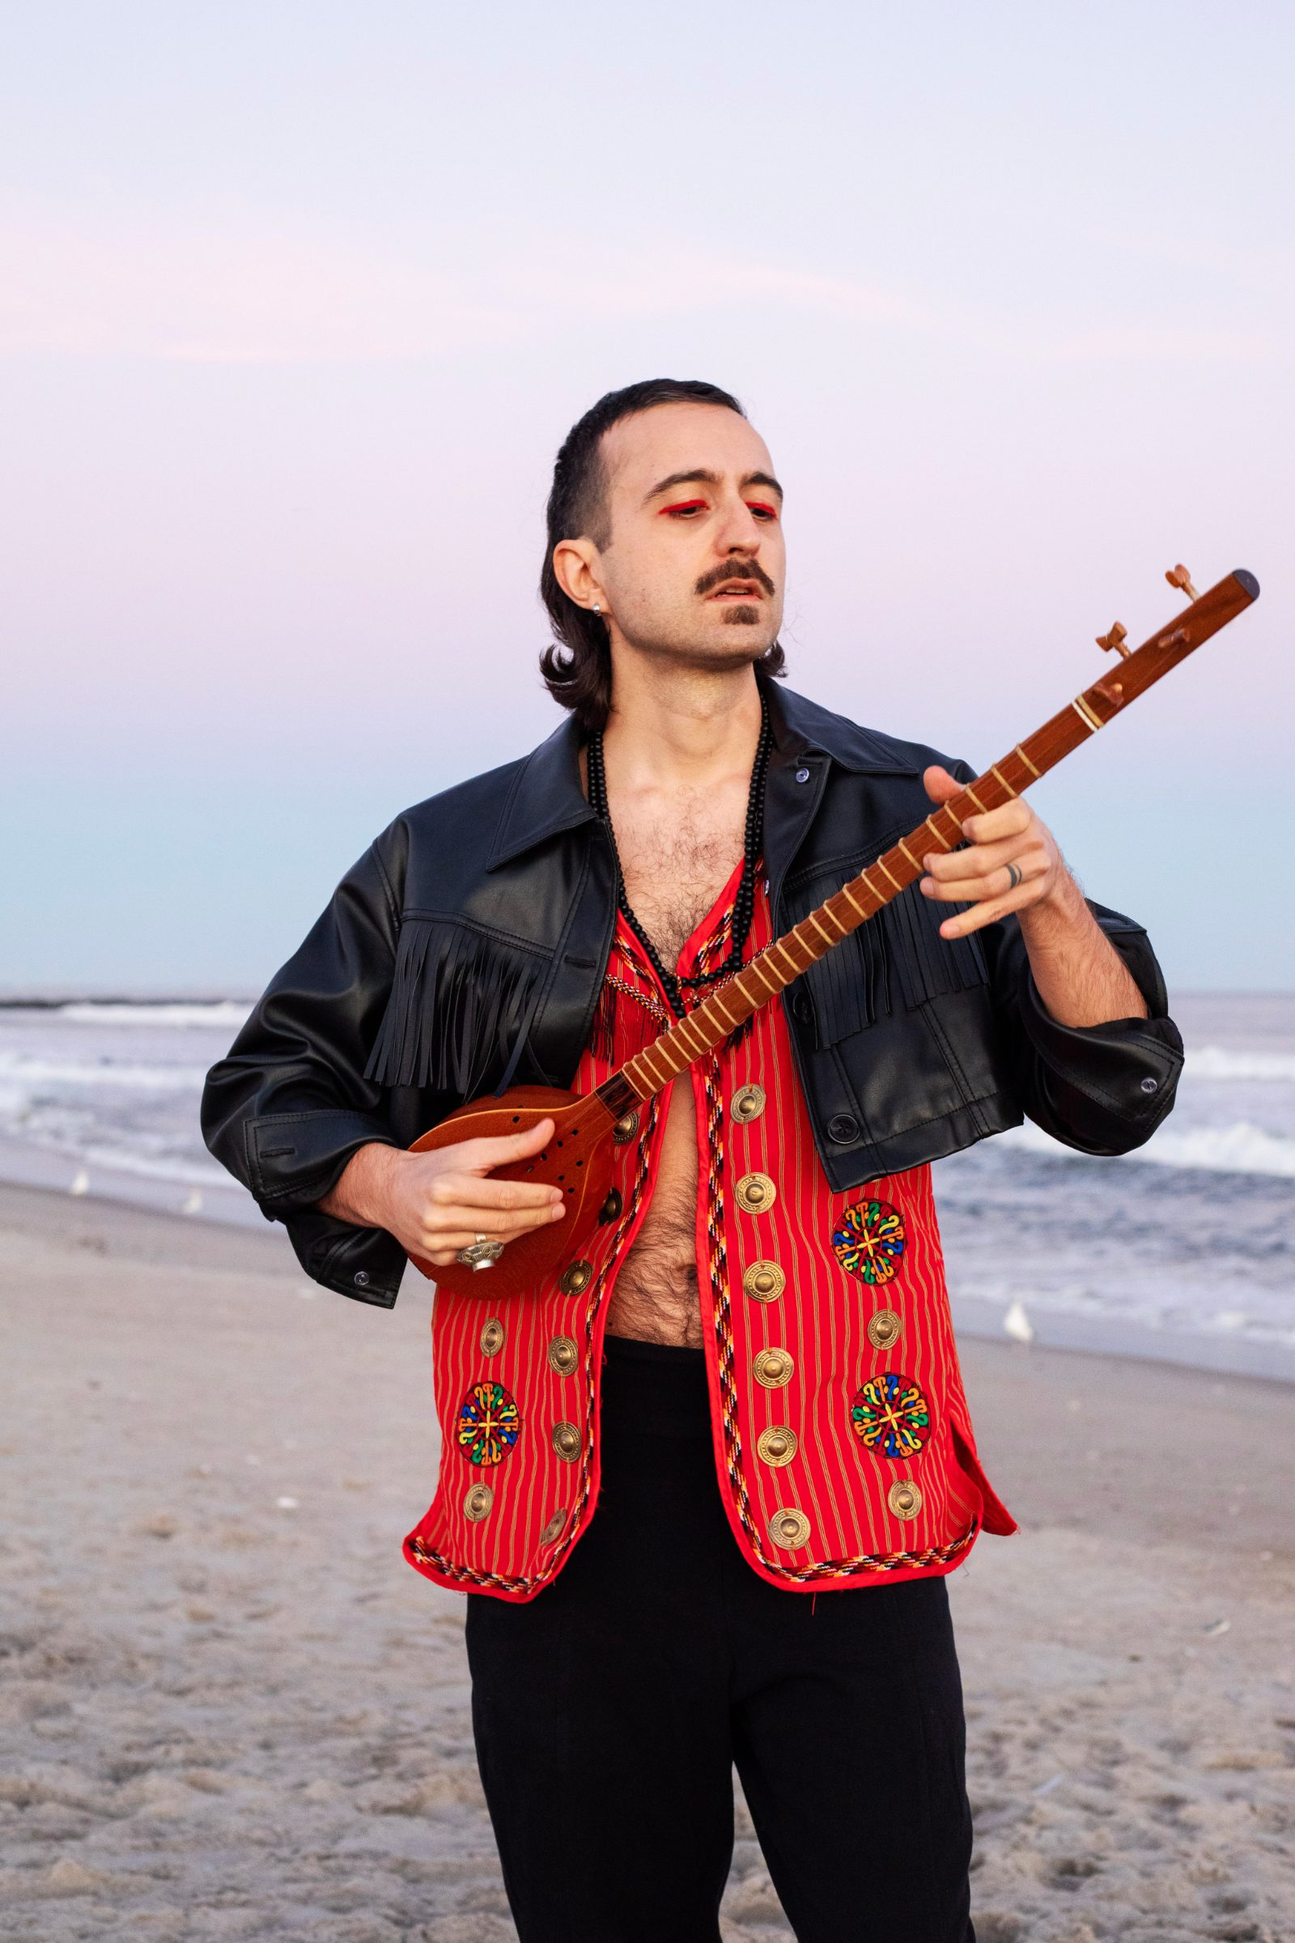
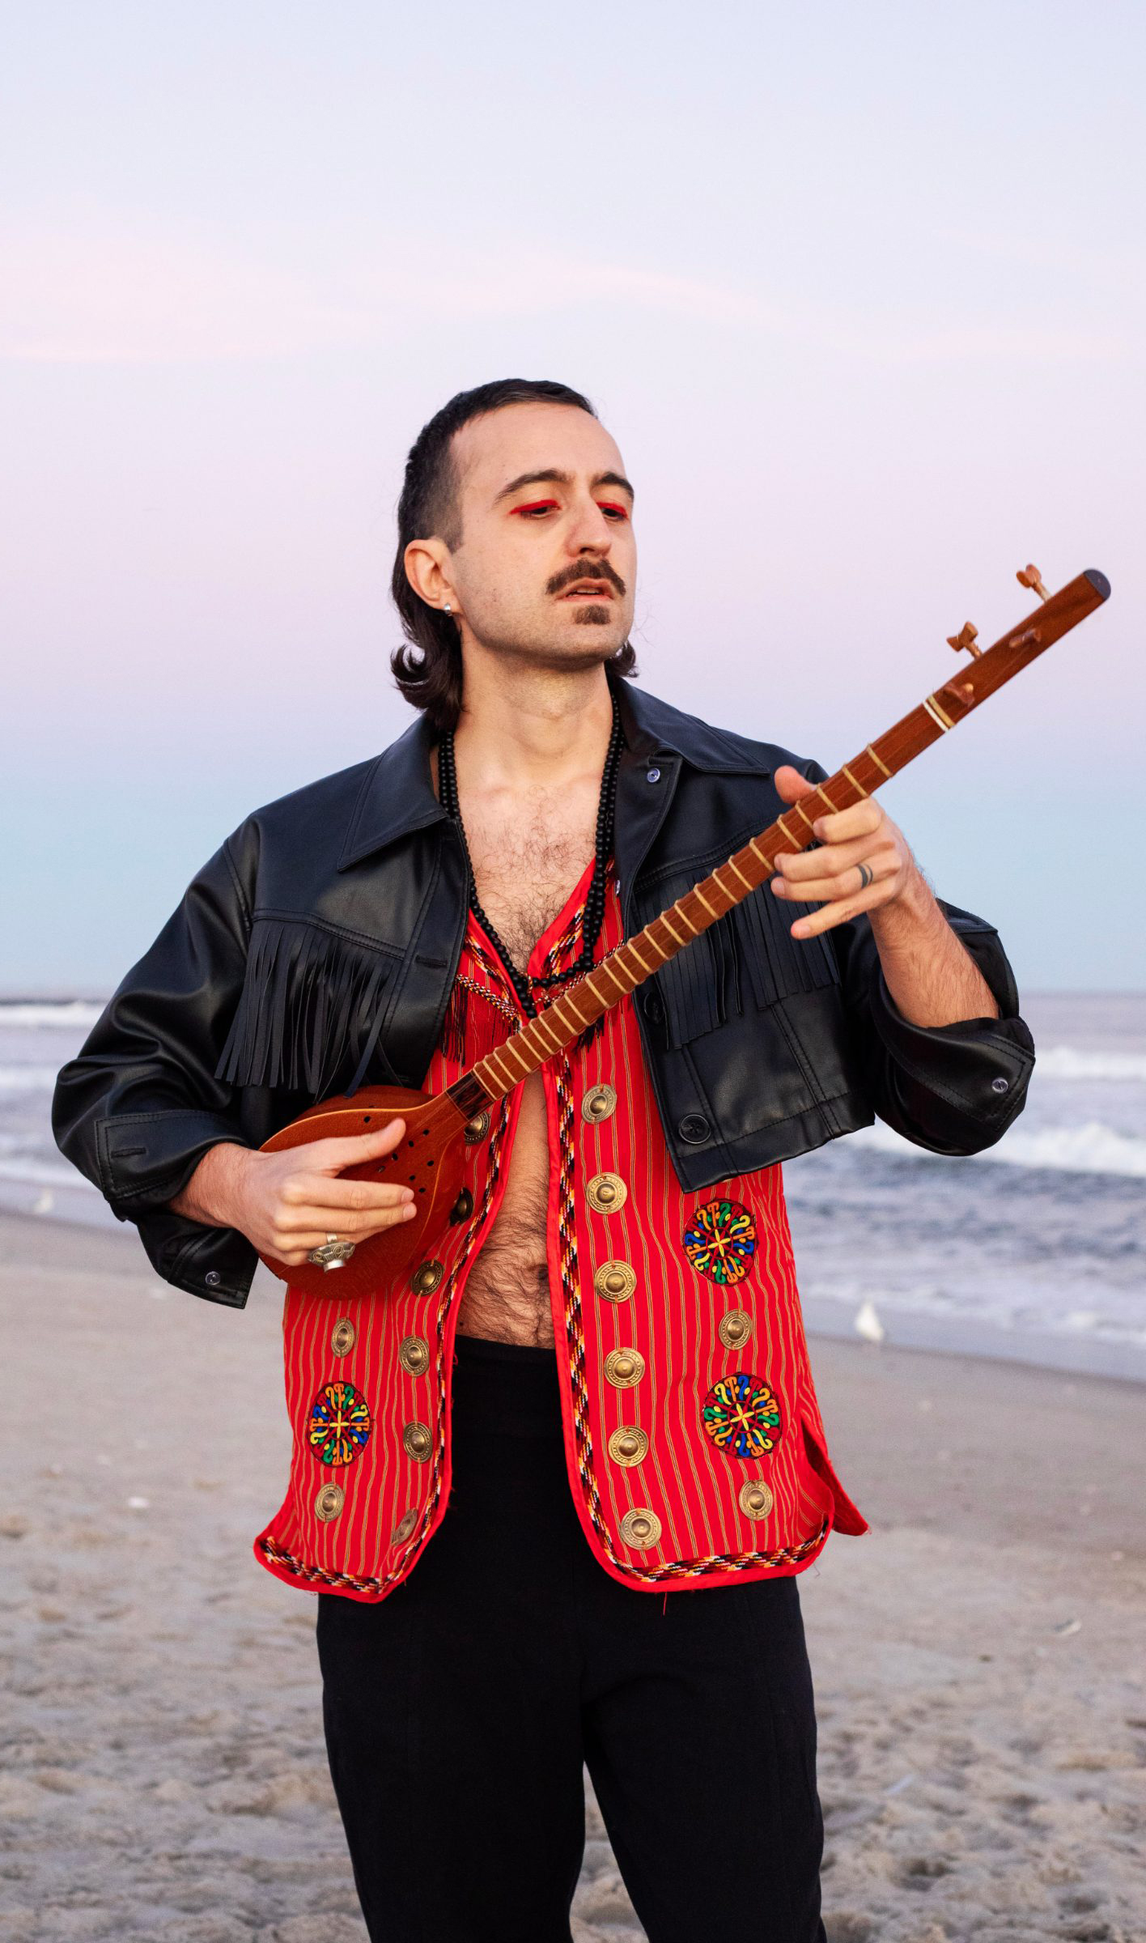
wip

diff --git a/claude-design/Tan Haw EPK.dc.html b/claude-design/Tan Haw EPK.dc.html
@@ -15,15 +15,15 @@
   html, body { margin:0; padding:0; background:#100E0C; }
   * { box-sizing: border-box; }
   a { color:#E4DED2; text-decoration: none; }
-  a:hover { color:#C4553A; }
-  ::selection { background:#C4553A; color:#100E0C; }
+  a:hover { color:rgb(157, 34, 34); }
+  ::selection { background:rgb(157, 34, 34); color:#100E0C; }
 </style>
 </helmet>
 <div style="background:#100E0C; color:#E4DED2; font-family:'Newsreader',Georgia,serif; overflow-x:hidden">
 
   <section style="position:relative; min-height:100vh; display:flex; flex-direction:column; justify-content:space-between; padding:28px clamp(20px,5vw,72px) clamp(48px,8vh,88px)" style-hover="--dl:1">
     <div style="position:absolute; inset:0; background-image:url('./assets/web-hero-setar-beach.jpg'); background-size:cover; background-position:50% 26%; background-repeat:no-repeat"></div>
-    <a href="./assets/web-hero-setar-beach.jpg" download="Tan Haw - Press 2024 (beach setar).jpg" title="Download" aria-label="Download hero photo" style="position:absolute; right:clamp(20px,5vw,72px); bottom:clamp(20px,4vh,40px); z-index:2; width:40px; height:40px; display:flex; align-items:center; justify-content:center; background:rgba(16,14,12,0.72); border:1px solid rgba(228,222,210,0.3); color:#E4DED2; opacity:var(--dl,0); transition:opacity 0.28s ease, background 0.2s ease; backdrop-filter:blur(6px)" style-hover="background:#C4553A; border:1px solid #C4553A; color:#100E0C">
+    <a href="./assets/web-hero-setar-beach.jpg" download="Tan Haw - Press 2024 (beach setar).jpg" title="Download" aria-label="Download hero photo" style="position:absolute; right:clamp(20px,5vw,72px); bottom:clamp(20px,4vh,40px); z-index:2; width:40px; height:40px; display:flex; align-items:center; justify-content:center; background:rgba(16,14,12,0.72); border:1px solid rgba(228,222,210,0.3); color:#E4DED2; opacity:var(--dl,0); transition:opacity 0.28s ease, background 0.2s ease; backdrop-filter:blur(6px)" style-hover="background:rgb(157, 34, 34); border:1px solid rgb(157, 34, 34); color:#100E0C">
       <svg width="16" height="16" viewBox="0 0 16 16" fill="none" stroke="currentColor" stroke-width="1.4" stroke-linecap="square"><path d="M8 1.5v9"></path><path d="M4.2 7l3.8 3.8L11.8 7"></path><path d="M2 14h12"></path></svg>
     </a>
     <div style="position:absolute; inset:0; background:radial-gradient(120% 78% at 50% 42%, rgba(16,14,12,0) 42%, rgba(16,14,12,0.55) 100%)"></div>
@@ -48,7 +48,7 @@
 
       <section style="padding:clamp(56px,10vh,120px) 0; border-bottom:1px solid #221E1A">
         <div style="display:flex; justify-content:space-between; align-items:baseline; gap:16px; margin-bottom:28px; flex-wrap:wrap">
-          <span style="font-family:'IBM Plex Mono',monospace; font-size:11px; letter-spacing:0.2em; text-transform:uppercase; color:#C4553A">Lead track — Debut LP</span>
+          <span style="font-family:'IBM Plex Mono',monospace; font-size:11px; letter-spacing:0.2em; text-transform:uppercase; color:rgb(157, 34, 34)">Lead track — Debut LP</span>
           <span style="font-family:'Bodoni Moda',serif; font-size:clamp(24px,3.4vw,40px); font-style:italic">Royâ-ye Mahtâb</span>
         </div>
         <iframe width="100%" height="166" scrolling="no" frameborder="no" allow="autoplay; encrypted-media" src="https://w.soundcloud.com/player/?url=https%3A//api.soundcloud.com/tracks/soundcloud%3Atracks%3A2354673524%3Fsecret_token%3Ds-a9mJtRQyuAu&color=%2381212e&auto_play=false&hide_related=true&show_comments=false&show_user=true&show_reposts=false&show_teaser=false" style="display:block; border:1px solid #221E1A"></iframe>
@@ -65,7 +65,7 @@
               <p style="margin:0">The record moves through Iranian classical structure, microtonal fretless-guitar psych-rock, electronica, and cumbia, sung across Persian, Azerbaijani, English, and Spanish. Tan Haw's work has been featured in Bandcamp Daily's “Big Ups.”</p>
             </div>
           </sc-if>
-          <button onClick="{{ toggleBio }}" style="font-family:'IBM Plex Mono',monospace; font-size:11px; letter-spacing:0.16em; text-transform:uppercase; color:#C4553A; background:none; border:none; border-bottom:1px solid #3A322B; padding:0 0 6px; cursor:pointer" style-hover="border-bottom:1px solid #C4553A">{{ bioToggleLabel }}</button>
+          <button onClick="{{ toggleBio }}" style="font-family:'IBM Plex Mono',monospace; font-size:11px; letter-spacing:0.16em; text-transform:uppercase; color:rgb(157, 34, 34); background:none; border:none; border-bottom:1px solid #3A322B; padding:0 0 6px; cursor:pointer" style-hover="border-bottom:1px solid rgb(157, 34, 34)">{{ bioToggleLabel }}</button>
         </div>
       </section>
 
@@ -127,11 +127,11 @@
       <span style="font-family:'IBM Plex Mono',monospace; font-size:11px; font-weight:500; letter-spacing:0.2em; text-transform:uppercase; color:#C0B8AC; display:block; margin-bottom:clamp(24px,4vh,44px)">Press</span>
       <blockquote style="font-family:'Bodoni Moda',serif; font-size:clamp(27px,4vw,58px); line-height:1.18; font-weight:400; margin:0 0 clamp(32px,5vh,56px); max-width:19ch; color:#F2EDE4; letter-spacing:-0.01em; text-shadow:0 2px 28px rgba(16,14,12,0.85), 0 1px 3px rgba(16,14,12,0.7)">“Tan Haw is a radical improviser who explores the intersection of Iranian classical music with various forms of contemporary music.”</blockquote>
       <a href="https://daily.bandcamp.com/big-ups/cyrus-moussavi-mississippi-records-iran-music" style="display:block; border-top:1px solid rgba(228,222,210,0.28); padding-top:22px; max-width:52ch">
-        <span style="font-family:'IBM Plex Mono',monospace; font-size:11px; letter-spacing:0.16em; text-transform:uppercase; color:#E07A5E; display:block; margin-bottom:10px; text-shadow:0 1px 12px rgba(16,14,12,0.9)">Bandcamp Daily — Big Ups ↗</span>
+        <span style="font-family:'IBM Plex Mono',monospace; font-size:11px; letter-spacing:0.16em; text-transform:uppercase; color:rgb(157, 34, 34); display:block; margin-bottom:10px; text-shadow:0 1px 12px rgba(16,14,12,0.9)">Bandcamp Daily — Big Ups ↗</span>
         <span style="font-size:20px; line-height:1.5; display:block; color:#F2EDE4; text-shadow:0 2px 20px rgba(16,14,12,0.9), 0 1px 3px rgba(16,14,12,0.7)">Cyrus Moussavi of Mississippi Records spotlights Iranian music he loves</span>
       </a>
     </div>
-    <a href="./assets/web-press-setar-sky.jpg" download="Tan Haw - Press 2024 (sky setar) - ph Julie Thompson.jpg" title="Download" aria-label="Download press photo" style="position:absolute; right:clamp(20px,5vw,72px); bottom:clamp(20px,4vh,40px); width:40px; height:40px; display:flex; align-items:center; justify-content:center; background:rgba(16,14,12,0.72); border:1px solid rgba(228,222,210,0.3); color:#E4DED2; opacity:var(--dl,0); transition:opacity 0.28s ease, background 0.2s ease; backdrop-filter:blur(6px)" style-hover="background:#C4553A; border:1px solid #C4553A; color:#100E0C">
+    <a href="./assets/web-press-setar-sky.jpg" download="Tan Haw - Press 2024 (sky setar) - ph Julie Thompson.jpg" title="Download" aria-label="Download press photo" style="position:absolute; right:clamp(20px,5vw,72px); bottom:clamp(20px,4vh,40px); width:40px; height:40px; display:flex; align-items:center; justify-content:center; background:rgba(16,14,12,0.72); border:1px solid rgba(228,222,210,0.3); color:#E4DED2; opacity:var(--dl,0); transition:opacity 0.28s ease, background 0.2s ease; backdrop-filter:blur(6px)" style-hover="background:rgb(157, 34, 34); border:1px solid rgb(157, 34, 34); color:#100E0C">
       <svg width="16" height="16" viewBox="0 0 16 16" fill="none" stroke="currentColor" stroke-width="1.4" stroke-linecap="square"><path d="M8 1.5v9"></path><path d="M4.2 7l3.8 3.8L11.8 7"></path><path d="M2 14h12"></path></svg>
     </a>
   </section>
@@ -148,7 +148,7 @@
           <figure style="margin:0">
             <div style="position:relative" style-hover="--dl:1">
               <img src="./assets/web-press-beach.jpg" alt="Tan Haw press portrait" style="display:block; width:100%; aspect-ratio:3/4; object-fit:cover; object-position:50% 30%">
-              <a href="./assets/web-press-beach.jpg" download="Tan Haw - Press Portrait 2024 - ph Julie Thompson.jpg" title="Download" aria-label="Download press portrait" style="position:absolute; right:12px; bottom:12px; width:40px; height:40px; display:flex; align-items:center; justify-content:center; background:rgba(16,14,12,0.72); border:1px solid rgba(228,222,210,0.3); color:#E4DED2; opacity:var(--dl,0); transition:opacity 0.28s ease, background 0.2s ease; backdrop-filter:blur(6px)" style-hover="background:#C4553A; border:1px solid #C4553A; color:#100E0C">
+              <a href="./assets/web-press-beach.jpg" download="Tan Haw - Press Portrait 2024 - ph Julie Thompson.jpg" title="Download" aria-label="Download press portrait" style="position:absolute; right:12px; bottom:12px; width:40px; height:40px; display:flex; align-items:center; justify-content:center; background:rgba(16,14,12,0.72); border:1px solid rgba(228,222,210,0.3); color:#E4DED2; opacity:var(--dl,0); transition:opacity 0.28s ease, background 0.2s ease; backdrop-filter:blur(6px)" style-hover="background:rgb(157, 34, 34); border:1px solid rgb(157, 34, 34); color:#100E0C">
                 <svg width="16" height="16" viewBox="0 0 16 16" fill="none" stroke="currentColor" stroke-width="1.4" stroke-linecap="square"><path d="M8 1.5v9"></path><path d="M4.2 7l3.8 3.8L11.8 7"></path><path d="M2 14h12"></path></svg>
               </a>
             </div>
@@ -157,7 +157,7 @@
           <figure style="margin:0">
             <div style="position:relative" style-hover="--dl:1">
               <img src="./assets/web-live-umbra.jpg" alt="Tan Haw live at Umbra, New York, 2025" style="display:block; width:100%; aspect-ratio:3/4; object-fit:cover; object-position:50% 30%">
-              <a href="./assets/web-live-umbra.jpg" download="Tan Haw - Umbra New York 2025 - ph Sasan Oskouei.jpg" title="Download" aria-label="Download Umbra live photo" style="position:absolute; right:12px; bottom:12px; width:40px; height:40px; display:flex; align-items:center; justify-content:center; background:rgba(16,14,12,0.72); border:1px solid rgba(228,222,210,0.3); color:#E4DED2; opacity:var(--dl,0); transition:opacity 0.28s ease, background 0.2s ease; backdrop-filter:blur(6px)" style-hover="background:#C4553A; border:1px solid #C4553A; color:#100E0C">
+              <a href="./assets/web-live-umbra.jpg" download="Tan Haw - Umbra New York 2025 - ph Sasan Oskouei.jpg" title="Download" aria-label="Download Umbra live photo" style="position:absolute; right:12px; bottom:12px; width:40px; height:40px; display:flex; align-items:center; justify-content:center; background:rgba(16,14,12,0.72); border:1px solid rgba(228,222,210,0.3); color:#E4DED2; opacity:var(--dl,0); transition:opacity 0.28s ease, background 0.2s ease; backdrop-filter:blur(6px)" style-hover="background:rgb(157, 34, 34); border:1px solid rgb(157, 34, 34); color:#100E0C">
                 <svg width="16" height="16" viewBox="0 0 16 16" fill="none" stroke="currentColor" stroke-width="1.4" stroke-linecap="square"><path d="M8 1.5v9"></path><path d="M4.2 7l3.8 3.8L11.8 7"></path><path d="M2 14h12"></path></svg>
               </a>
             </div>
@@ -166,7 +166,7 @@
           <figure style="margin:0">
             <div style="position:relative" style-hover="--dl:1">
               <img src="./assets/web-live-artspace.jpg" alt="Tan Haw live at El Barrio's Artspace, 2026" style="display:block; width:100%; aspect-ratio:3/4; object-fit:cover">
-              <a href="./assets/web-live-artspace.jpg" download="Tan Haw - El Barrios Artspace 2026 - ph Matt Cusimano.jpg" title="Download" aria-label="Download Artspace live photo" style="position:absolute; right:12px; bottom:12px; width:40px; height:40px; display:flex; align-items:center; justify-content:center; background:rgba(16,14,12,0.72); border:1px solid rgba(228,222,210,0.3); color:#E4DED2; opacity:var(--dl,0); transition:opacity 0.28s ease, background 0.2s ease; backdrop-filter:blur(6px)" style-hover="background:#C4553A; border:1px solid #C4553A; color:#100E0C">
+              <a href="./assets/web-live-artspace.jpg" download="Tan Haw - El Barrios Artspace 2026 - ph Matt Cusimano.jpg" title="Download" aria-label="Download Artspace live photo" style="position:absolute; right:12px; bottom:12px; width:40px; height:40px; display:flex; align-items:center; justify-content:center; background:rgba(16,14,12,0.72); border:1px solid rgba(228,222,210,0.3); color:#E4DED2; opacity:var(--dl,0); transition:opacity 0.28s ease, background 0.2s ease; backdrop-filter:blur(6px)" style-hover="background:rgb(157, 34, 34); border:1px solid rgb(157, 34, 34); color:#100E0C">
                 <svg width="16" height="16" viewBox="0 0 16 16" fill="none" stroke="currentColor" stroke-width="1.4" stroke-linecap="square"><path d="M8 1.5v9"></path><path d="M4.2 7l3.8 3.8L11.8 7"></path><path d="M2 14h12"></path></svg>
               </a>
             </div>

diff --git a/src/components/sections/RiderSection.tsx b/src/components/sections/RiderSection.tsx
@@ -45,7 +45,7 @@ export default function RiderSection({ content }: { content: ResolvedContent }) 
             fontSize: '11px',
             letterSpacing: '0.14em',
             textTransform: 'uppercase',
-            color: '#C4553A',
+            color: 'rgb(157, 34, 34)',
             margin: '0 0 20px',
           }}
         >
@@ -93,11 +93,11 @@ export default function RiderSection({ content }: { content: ResolvedContent }) 
             fontSize: '11px',
             letterSpacing: '0.16em',
             textTransform: 'uppercase',
-            color: '#C4553A',
+            color: 'rgb(157, 34, 34)',
             borderBottom: '1px solid #3A322B',
             paddingBottom: '6px',
           }}
-          onMouseEnter={(e) => (e.currentTarget.style.borderBottomColor = '#C4553A')}
+          onMouseEnter={(e) => (e.currentTarget.style.borderBottomColor = 'rgb(157, 34, 34)')}
           onMouseLeave={(e) => (e.currentTarget.style.borderBottomColor = '#3A322B')}
         >
           Full rider PDF

diff --git a/src/components/sections/BioToggle.tsx b/src/components/sections/BioToggle.tsx
@@ -37,14 +37,14 @@ export default function BioToggle({ bioLong }: Props) {
           fontSize: '11px',
           letterSpacing: '0.16em',
           textTransform: 'uppercase',
-          color: '#C4553A',
+          color: 'rgb(157, 34, 34)',
           background: 'none',
           border: 'none',
           borderBottom: '1px solid #3A322B',
           padding: '0 0 6px',
           cursor: 'pointer',
         }}
-        onMouseEnter={(e) => (e.currentTarget.style.borderBottomColor = '#C4553A')}
+        onMouseEnter={(e) => (e.currentTarget.style.borderBottomColor = 'rgb(157, 34, 34)')}
         onMouseLeave={(e) => (e.currentTarget.style.borderBottomColor = '#3A322B')}
       >
         {open ? 'Close full bio' : 'Read full bio'}

diff --git a/src/components/sections/EnsembleSection.tsx b/src/components/sections/EnsembleSection.tsx
@@ -49,9 +49,9 @@ export default function EnsembleSection({ content }: { content: ResolvedContent 
                 letterSpacing: '0.16em',
                 textTransform: 'uppercase',
                 padding: '10px 20px',
-                background: isActive ? '#C4553A' : 'transparent',
+                background: isActive ? 'rgb(157, 34, 34)' : 'transparent',
                 color: isActive ? '#100E0C' : '#7C7266',
-                border: `1px solid ${isActive ? '#C4553A' : '#3A322B'}`,
+                border: `1px solid ${isActive ? 'rgb(157, 34, 34)' : '#3A322B'}`,
                 cursor: 'pointer',
                 transition: 'background 0.18s ease, color 0.18s ease, border-color 0.18s ease',
               }}

diff --git a/src/components/SoundCloudPlayer.tsx b/src/components/SoundCloudPlayer.tsx
@@ -1,10 +1,10 @@
 interface Props {
   trackId: string
-  secretToken: string
+  secretToken: string | null
 }
 
 export default function SoundCloudPlayer({ trackId, secretToken }: Props) {
-  const trackUrl = `https://api.soundcloud.com/tracks/soundcloud:tracks:${trackId}?secret_token=${secretToken}`
+  const trackUrl = `https://api.soundcloud.com/tracks/soundcloud:tracks:${trackId}${secretToken ? `?secret_token=${secretToken}` : ''}`
   const src =
     `https://w.soundcloud.com/player/?url=${encodeURIComponent(trackUrl)}` +
     `&color=%2381212e&auto_play=false&hide_related=true&show_comments=false` +

diff --git a/src/components/sections/MusicSection.tsx b/src/components/sections/MusicSection.tsx
@@ -75,8 +75,8 @@ function TrackRow({
 
         {/* Right: player or placeholder */}
         <div style={{ minWidth: 0 }}>
-          {track.soundcloudTrackId && track.secretToken ? (
-            <SoundCloudPlayer trackId={track.soundcloudTrackId} secretToken={track.secretToken} />
+          {track.soundcloudTrackId ? (
+            <SoundCloudPlayer trackId={track.soundcloudTrackId} secretToken={track.secretToken ?? null} />
           ) : (
             <div
               style={{

diff --git a/src/components/sections/PressSection.tsx b/src/components/sections/PressSection.tsx
@@ -94,7 +94,7 @@ export default function PressSection({ content }: { content: ResolvedContent }) 
                 fontSize: '11px',
                 letterSpacing: '0.16em',
                 textTransform: 'uppercase',
-                color: '#E07A5E',
+                color: 'rgb(157, 34, 34)',
                 display: 'block',
                 marginBottom: '10px',
                 textShadow: '0 1px 12px rgba(16,14,12,0.9)',

diff --git a/src/components/sections/HeroSection.tsx b/src/components/sections/HeroSection.tsx
@@ -75,7 +75,7 @@ export default function HeroSection({ content }: { content: ResolvedContent }) {
           <img
             src="/logo.svg"
             alt="Tan Haw logotype"
-            style={{ height: '32px', width: 'auto', display: 'block' }}
+            style={{ height: '44px', width: 'auto', display: 'block' }}
           />
         </span>
         <span>Electronic Press Kit — 2026</span>

diff --git a/src/components/sections/FeaturedTrackSection.tsx b/src/components/sections/FeaturedTrackSection.tsx
@@ -26,7 +26,7 @@ export default function FeaturedTrackSection({ content }: { content: ResolvedCon
             fontSize: '11px',
             letterSpacing: '0.2em',
             textTransform: 'uppercase',
-            color: '#C4553A',
+            color: 'rgb(157, 34, 34)',
           }}
         >
           {variant.featuredTrackLabel}

diff --git a/src/styles/photos.module.css b/src/styles/photos.module.css
@@ -26,8 +26,8 @@
 }
 
 .downloadBtn:hover {
-  background: #C4553A !important;
-  border-color: #C4553A !important;
+  background: rgb(157, 34, 34) !important;
+  border-color: rgb(157, 34, 34) !important;
   color: #100E0C !important;
 }
 

diff --git a/src/styles/globals.css b/src/styles/globals.css
@@ -20,11 +20,11 @@ a {
 }
 
 a:hover {
-  color: #C4553A;
+  color: rgb(157, 34, 34);
 }
 
 ::selection {
-  background: #C4553A;
+  background: rgb(157, 34, 34);
   color: #100E0C;
 }
 

diff --git a/claude-design/HANDOFF.md b/claude-design/HANDOFF.md
@@ -180,8 +180,8 @@ Port exactly from `Tan Haw EPK.dc.html`. Do not re-derive.
 | Faint | `#5E564C` | captions, credits |
 | Footer | `#A79E92` | footer sign-off — deliberately brighter than Faint |
 | Rule | `#221E1A` / `#1C1917` | section dividers / inner rules |
-| Ember | `#C4553A` | accent, hover, active |
-| Ember light | `#E07A5E` | accent over photography |
+| Ember | `rgb(157, 34, 34)` | accent, hover, active |
+| Ember light | `rgb(157, 34, 34)` | accent over photography |
 
 Two background values only — the ground and photography. No gradient fills as decoration; gradients are photo scrims only.
 
